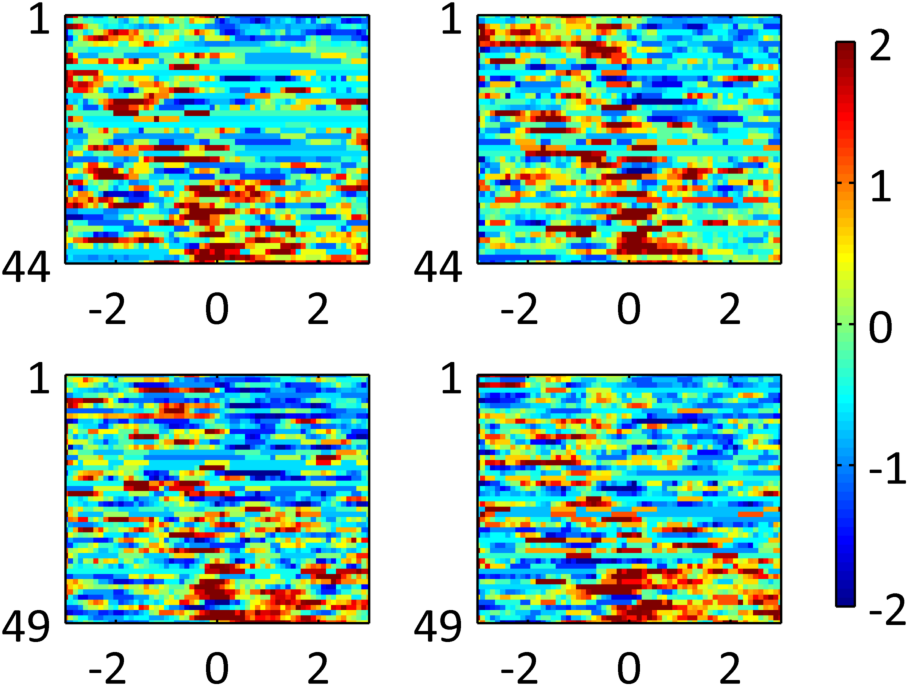
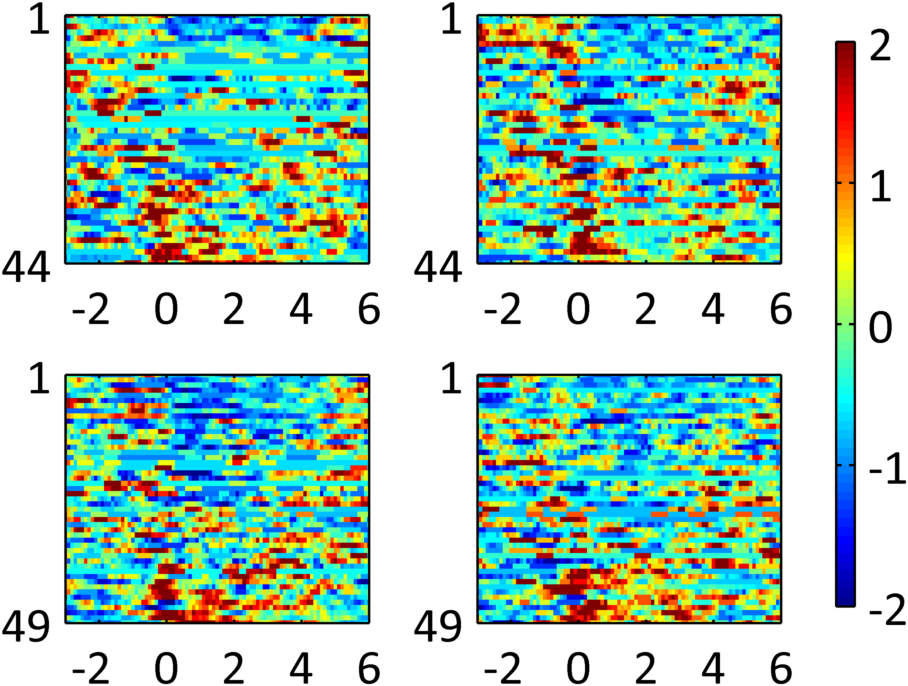
some figure generation updates

diff --git a/testing_boundedlines_someRfDel.m b/testing_boundedlines_someRfDel.m
@@ -114,7 +114,7 @@ for condIDX=1:2
         %yStdErr(:,1,varIDX-2)=std(data.(VarList{varIDX}).DPrime.First3.(CondList{condIDX}),1)/sqrt(size(data.(VarList{varIDX}).DPrime.First3.(CondList{condIDX}),1));
     end
     for timeIDX=1:2
-        fighandle=figure ('position',[100, 100, 250, 125]);%, 'outerposition',[90, 90, 250, 200]);
+        fighandle=figure ('position',[100, 100, 200, 200]);%, 'outerposition',[90, 90, 250, 200]);
         %curAxes=axes('position', [0.1300    0.1100+(.5*x-1)    0.7750    0.3412]);
         %axisPos=get(gca, 'position');
         %set (gca,'position', [0.1300+(    0.1100    0.7750    0.3412]);
@@ -139,13 +139,13 @@ for condIDX=1:2
             end
         end
         axis([-2.8 6 -1.5 2.5]);
-        set(gca,'YTick', [-1 0 1 2]);
+        set(gca,'YTick', [-1 0 1 2]);   
         set(gca,'XTick', [-2 0 2 4 6]);
         set(gca,'FontSize',8)
         set(gca,'FontName','Calibri')
         set(gca,'Linewidth',.75);    
-        if condIDX==1 tempTitle=['Fig2D' TimeList{timeIDX} '.png'];
-        else tempTitle=['Fig2E' TimeList{timeIDX} '.png'];
+        if condIDX==1 tempTitle=['Fig3E' TimeList{timeIDX} '.png'];
+        else tempTitle=['Fig3F' TimeList{timeIDX} '.png'];
         end
         
         export_fig (fighandle, '-m3.5', '-transparent',tempTitle);

diff --git a/testing_boundedlines_RfCon.m b/testing_boundedlines_RfCon.m
@@ -220,7 +220,7 @@ for varIDX=1:4
     %set(gca,'DefaultTextFontSize',18+varIDX*2)
     imagesc(data.xA,1:size(tempZ,1),tempZ(data.(VarList{varIDX}).DPrime.First3.overallSort,:),[-2 2]);
     %title(['DPrime sorted: ' VarList{varIDX}]);
-    axis([-3 3 1 size(tempZ,1)]);
+    axis([-3 6 1 size(tempZ,1)]);
     axisPos=get(gca, 'position');
     set(gca, 'position', [axisPos(1)-(~mod(varIDX,2)*.02) axisPos(2)+((varIDX<=2)*.02) axisPos(3)/1.08 axisPos(4)]);
     set(gca,'YTick',[1 size(tempZ,1)])
